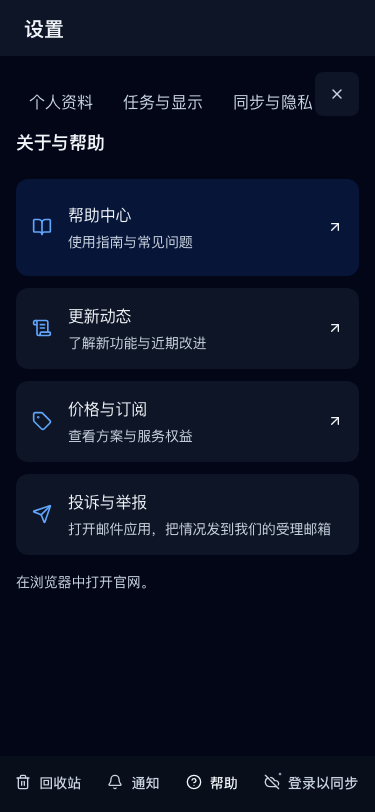
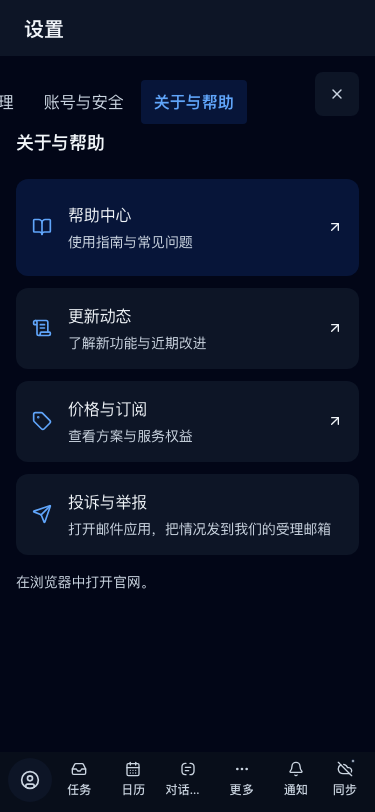
fix(设置导航 窄屏) 当前项要被滚进可视窗口 —— 那条规则从按钮的 onClick 收成 active 的一份 effect
台账里那条"真缺陷"（窄屏 375 从 rail「帮助」进设置，当前分类画在导航可视窗口外 316px，
选中态等于白给）当时登记为"本线不代改"，前置条件是"两栏 IA 还是别人未提交的改动"。
现量：`git show HEAD:apps/web/src/App.tsx | grep -c activeSettingsSection` = 16，
`git diff HEAD -- apps/web/src/App.tsx` 只有本线这一处 ⇒ 结构已进 main，那一格从此是
HEAD 上的在案缺陷，挡它的条件不成立了。

机制：`scrollIntoView` 只挂在导航按钮自己的 `onClick` 上，而选这一档一共四条路 ——
点导航按钮只是其中一条，rail「帮助」/ rail「个人信息」/ `openAiSettings` 那些锚点走的
都是 `setSettingsAnchor(...)`，根本不经过那个 `onClick`。修法按当年写的形状做（没有加
超时、没有改阈值）：把它改成 `SettingsSectionNav` 里 `active` 的 `useEffect`，
一份规则四条路共用 —— 这正是 `App.tsx` 里 H9 第 3 刀"三份拷贝会开始漂移"那个形状。

两头都有牙，且都先红后绿：
- `apps/web/tests/settings-nav-reveal.spec.tsx`（jsdom，记的是"滚的是谁 + 参数"）：
  改前 3/3 红，改后 3/3 绿。第三条用例钉的是"点按钮那条路别因为收成一份而丢"。
- `e2e/tests/help-entry-ux.spec.ts`（真浏览器，量几何：当前项矩形必须在
  `.ht-settings__nav` 可视窗口内）：4/4 绿；红臂把 `App.tsx` 临时换回改前那一版取到，
  原文 `窗口 x=0..315，当前项 x=630.625..736.625`，与台账当年那句 631..737 逐字对得上，
  换完按 sha 校验还原（restored=match_myfix YES）。

连带一条装置侧事实，写清楚免得下一位重踩：effect 一挂上，jsdom 里任何打开过设置的用例
都崩在 `scrollIntoView is not a function` —— 实测 8 枚测试文件 / 34 条用例同时红。
没有把宿主代码改成 `?.scrollIntoView?.()`（那是给生产代码开一条"环境不支持就什么都不做"
的旁路，而那恰是这条规则唯一需要被看见的失败形状），而是按 `apps/web/tests/setup.ts`
自己的规矩补成"jsdom 补齐之四"，与它既有的 `CSS.supports` / `matchMedia` /
`navigator.language` 三条同一个取舍。

复量：`pnpm --dir apps/web test` = 2291 passed / 1 failed，那一枚不是本线的
（`tests/ai-disclosure-parity.spec.tsx`，别线已登记在 `docs/plans/ai-assistant-closure.md`
第 1021 行那张表第 1 行；用例与被测物 `git status` 都干净 ⇒ HEAD 内容）。
[…]

diff --git a/apps/web/tests/settings-nav-reveal.spec.tsx b/apps/web/tests/settings-nav-reveal.spec.tsx
@@ -1,0 +1,185 @@
+/**
+ * 设置导航的**当前项要被带进可视窗口** —— 而且不管这一档是谁选的
+ * ===============================================================
+ *
+ * ## 它补的是哪一条
+ *
+ * 窄屏（实测 375）那条设置分组导航是一根**横向可滚的条**：七项的总宽远超可视窗口，
+ * 「关于与帮助」落在文档 x `631..737` 而窗口只到 `x=315`。从 rail 的「帮助」进设置时，
+ * 内容面已经换成一屏的帮助，导航那一行却还停在最左边 —— **选中态（`aria-current="page"`
+ * 那条主蓝底纹）整个画在可视窗口外**，用户看见的是"我点了帮助，界面却没有任何一项被选中"。
+ *
+ * 机制不在眼睛那儿，在代码里一眼看得到：`scrollIntoView` **只挂在导航按钮自己的
+ * `onClick` 上**。而选这一档一共有四条路 —— 点导航按钮是其中一条，另外三条
+ * （rail「帮助」/ rail「个人信息」/ `openAiSettings` 那些锚点）走的都是
+ * `setSettingsAnchor(...)`，**根本不经过那个 `onClick`**。
+ *
+ * 🔴 本文件先钉"程序化那条路也必须是滚的是导航项"，再钉"点按钮那条路别被我改丢"。
+ * 第二条不是凑数：修法是**把那条规则从 `onClick` 挪成 `active` 的 effect**（一份拷贝，
+ * 四条路共用），挪错了就会只剩效果 A 没有效果 B —— 而那正好是本仓 H9 第 3 刀
+ * （`App.tsx` 里"三份拷贝会开始漂移"那段）说的同一个形状。
+ *
+ * ## 为什么记下的是"滚的是谁"而不是"滚没滚"
+ *
+ * jsdom 不实现 `Element.prototype.scrollIntoView`（浏览器专有）。补法沿用
+ * `settings-anchor-focus.spec.tsx` / `search-panel.spec.tsx`：**补在测试这边**，
+ * 不把宿主代码改成 `?.scrollIntoView?.()`（那是为了迁就夹具而弱化产品代码）。
+ * 顺手把它变成真判据：记下滚的**是谁**与**参数**，于是"滚了内容区那一节"和
+ * "滚了导航里当前项"这两种读法不再同形 —— 本文件第一次跑就是靠这一点红的。
+ */
+import { act } from 'react';
+import { createRoot, type Root } from 'react-dom/client';
+import { IDBFactory } from 'fake-indexeddb';
+import { afterEach, beforeEach, describe, expect, it, vi } from 'vitest';
+
+import { __resetAuthForTests } from '../src/features/auth/store.js';
+import { __resetOpLogForTests, initOpLog } from '../src/lib/oplog.js';
+import { emptyState } from '@heyta/op-log';
+import { privacyConsentActions } from '../src/features/privacy/consent-gate.js';
+import { useSyncStore } from '../src/features/sync/store.js';
+import { useTaskStore } from '../src/features/tasks/store.js';
+import { LocaleHost } from '../src/lib/locale-host.js';
+
+(globalThis as unknown as { indexedDB: IDBFactory }).indexedDB = new IDBFactory();
+(globalThis as unknown as { IDBKeyRange: typeof IDBKeyRange }).IDBKeyRange = IDBKeyRange;
+
+const { App } = await import('../src/App.js');
+
+type Scroll = { target: string; options: unknown };
+const scrolls: Scroll[] = [];
+const originalScrollIntoView = Element.prototype.scrollIntoView;
+const originalScrollTo = Element.prototype.scrollTo;
+
+/**
+ * 导航按钮与内容区那一节的 `id` **会同名**（按钮 `aria-controls="settings-group-help"`，
+ * 区块 `id="settings-group-help"`）—— 不加前缀两者都读成同一个字符串，"滚了区块"就会被
+ * 误读成"滚了导航项"。所以这里把来源写进标签里。
+ */
+function scrollTarget(el: Element): string {
+  const controls = el.getAttribute('aria-controls');
+  if (controls !== null) return `nav:${controls}`;
+  if (el.id !== '') return `section:${el.id}`;
+  const testId = el.getAttribute('data-testid');
+  if (testId !== null) return `testid:${testId}`;
+  return el.tagName.toLowerCase();
+}
+
+let root: Root | undefined;
+let container: HTMLDivElement | undefined;
+
+const click = (el: Element): void => {
+  act(() => {
+    el.dispatchEvent(new MouseEvent('click', { bubbles: true }));
+  });
+};
+
+beforeEach(async () => {
+  scrolls.length = 0;
+  Element.prototype.scrollIntoView = function (this: Element, options?: unknown): void {
+    scrolls.push({ target: scrollTarget(this), options });
+  };
+  /**
+   * 换档时 `onSelect` 还会把浮层滚回顶部（`document.querySelector('.ht-sheet')?.scrollTo(...)`），
+   * 而 jsdom 同样**不实现** `scrollTo`。不补这一层，点按钮那条路会崩在宿主代码里，
+   * 报错指不到产品行为 —— 补法与上面 `scrollIntoView` 同理：补在测试这边。
+   */
+  Object.defineProperty(Element.prototype, 'scrollTo', {
+    value: (): void => undefined,
+    configurable: true,
+    writable: true,
+  });
+  __resetAuthForTests();
+  (globalThis as unknown as { indexedDB: IDBFactory }).indexedDB = new IDBFactory();
+  __resetOpLogForTests();
+  useTaskStore.setState({ entities: emptyState(), filter: { kind: 'all' } });
+  await initOpLog(`nav-reveal-${Math.random().toString(36).slice(2)}`);
+  useSyncStore.setState({ baseUrl: '', token: undefined, password: undefined });
+  vi.stubGlobal(
+    'fetch',
+    vi.fn(async (input: RequestInfo | URL) => {
+      const path = new URL(String(input)).pathname;
+      if (path === '/api/account/profile') {
+        return Response.json({ displayName: null, avatarHash: null });
+      }
+      return Response.json({ error: 'not part of this journey' }, { status: 404 });
+    }),
+  );
+  // 冷启动会弹首启隐私面板；本文件的前提是"这台设备已经做过隐私决定"。
+  privacyConsentActions.accept();
+
+  container = document.createElement('div');
+  document.body.appendChild(container);
+  root = createRoot(container);
+  await act(async () => {
+    root!.render(
+      <LocaleHost>
+        <App />
+      </LocaleHost>,
+    );
+  });
+});
+
+afterEach(() => {
+  Element.prototype.scrollIntoView = originalScrollIntoView;
+  Object.defineProperty(Element.prototype, 'scrollTo', {
+    value: originalScrollTo,
+    configurable: true,
+    writable: true,
+  });
+  act(() => {
+    root?.unmount();
+  });
+  container?.remove();
+  root = undefined;
+  container = undefined;
+  vi.unstubAllGlobals();
+});
+
+describe('设置分组导航的当前项要被滚进可视窗口', () => {
+  it('从 rail 的「帮助」进设置：滚的是导航里 `aria-current="page"` 那一项，不是只有内容区那一节', async () => {
+    const el = container!;
+    const railHelp = el.querySelector('[data-testid="rail-help"]');
+    expect(railHelp, 'rail 上必须有「帮助」').not.toBeNull();
+
+    click(railHelp!);
+
+    const current = el.querySelector('.ht-settings__nav [aria-current="page"]');
+    expect(current, '设置浮层的导航里必须有一项被标成当前档').not.toBeNull();
+    expect(current!.getAttribute('aria-controls'), '程序化选的那一档就是帮助').toBe(
+      'settings-group-help',
+    );
+
+    // 🔴 这一句是本文件的主判据。旧代码里 `scrollIntoView` 只挂在导航按钮自己的
+    //    `onClick` 上，而这条路径不经过它 ⇒ 被滚的只有 `section:settings-group-help`。
+    expect(
+      scrolls.some((s) => s.target === 'nav:settings-group-help'),
+      `导航里的当前项一次都没被滚过（本趟滚到的：${JSON.stringify(scrolls.map((s) => s.target))}）`,
+    ).toBe(true);
+  });
+
+  it('那条滚动的参数还是 `block:"nearest"` + `inline:"center"`（横向居中，别把整页顶下去）', async () => {
+    const el = container!;
+    click(el.querySelector('[data-testid="rail-help"]')!);
+
+    const revealed = scrolls.find((s) => s.target === 'nav:settings-group-help');
+    expect(revealed, '当前项没有被滚').not.toBeUndefined();
+    expect(revealed!.options).toEqual({ block: 'nearest', inline: 'center' });
+  });
+
+  it('点导航按钮那条路没有因为"收成一份规则"而丢：换档后新当前项被滚', async () => {
+    const el = container!;
+    click(el.querySelector('[data-testid="rail-help"]')!);
+    scrolls.length = 0;
+
+    const syncNav = el.querySelector<HTMLButtonElement>('[aria-controls="settings-group-sync"]');
+    expect(syncNav, '导航里必须有「同步与隐私」').not.toBeNull();
+    click(syncNav!);
+
+    expect(
+      scrolls.some((s) => s.target === 'nav:settings-group-sync'),
+      `点按钮换档后新当前项没被滚（本趟滚到的：${JSON.stringify(scrolls.map((s) => s.target))}）`,
+    ).toBe(true);
+    expect(el.querySelector('.ht-settings__nav [aria-current="page"]')?.getAttribute('aria-controls'))
+      .toBe('settings-group-sync');
+  });
+});

diff --git a/e2e/tests/help-entry-ux.spec.ts b/e2e/tests/help-entry-ux.spec.ts
@@ -25,6 +25,25 @@ for (const width of [375, 1440]) {
       // 下层视图叠上来的**过渡帧**（`waitForOverlaySettled` 的注释里记着同一前科）。
       // 下面那些断言量的是 DOM/CSS/几何，不受影响；受影响的是给人打开看的那张图。
       await waitForOverlaySettled(page, 'settings-sheet');
+      /**
+       * 🔴 **导航里的当前项必须落在可视窗口内**。窄屏那根分组导航是横向可滚的条（七项总宽
+       * 远超窗口），而这一条路径**不经过导航按钮自己的 `onClick`** —— 旧代码把 `scrollIntoView`
+       * 只挂在那个 `onClick` 上，于是内容面已经换成帮助、导航还停在最左边，`aria-current="page"`
+       * 那条选中态整个画在窗口外（台账实测 375：当前项在文档 x `631..737`，窗口只到 `x=315`）。
+       * 同一规则的 jsdom 版判据在 `apps/web/tests/settings-nav-reveal.spec.tsx`；这一条量**几何**，
+       * 因为它要回答的是用户那一问 —— "我看得见我被选中了吗"。
+       */
+      const settingsNav = page.locator('.ht-settings__nav');
+      const currentNav = settingsNav.locator('[aria-current="page"]');
+      await expect(currentNav, '设置导航里必须有一项被标成当前档').toHaveCount(1);
+      const navBox = await settingsNav.boundingBox();
+      const currentBox = await currentNav.boundingBox();
+      expect(navBox, '设置导航必须在布局里').not.toBeNull();
+      expect(currentBox, '当前项必须在布局里').not.toBeNull();
+      expect(
+        currentBox!.x >= navBox!.x - 0.5 && currentBox!.x + currentBox!.width <= navBox!.x + navBox!.width + 0.5,
+        `当前项落在导航可视窗口外：窗口 x=${navBox!.x}..${navBox!.x + navBox!.width}，当前项 x=${currentBox!.x}..${currentBox!.x + currentBox!.width}`,
+      ).toBe(true);
       await expect(page.getByTestId('settings-sheet').getByRole('heading')).toHaveCount(1);
       await expect(page.getByTestId('detail-pane-toggle')).toHaveCount(0);
       const links = page.getByTestId('about-links').getByRole('link');

diff --git a/apps/web/src/App.tsx b/apps/web/src/App.tsx
@@ -242,15 +242,29 @@ function SettingsSectionNav({ active, onSelect }: {
   onSelect: (id: SettingsSectionId) => void;
 }): React.JSX.Element {
   const { t } = useI18n();
+  const navRef = useRef<HTMLElement>(null);
+  /**
+   * 🔴 **一份规则，四条路共用**。窄屏这根导航是横向可滚的条，七项总宽远超可视窗口，
+   * 所以"当前项要被带进视野"属于**当前项**，不属于**谁把它变成当前项**。
+   *
+   * 原先那行 `scrollIntoView` 挂在按钮自己的 `onClick` 上，于是从 rail「帮助」/
+   * rail「个人信息」/ `openAiSettings` 这些锚点进来时**根本不经过它**：内容面已经换成
+   * 那一节，导航却还停在最左边，`aria-current="page"` 那条选中态整个画在窗口外
+   * （实测 375：当前项落在文档 x `631..737`，窗口只到 `x=315`）。
+   *
+   * 判据在 `apps/web/tests/settings-nav-reveal.spec.tsx`（先红后绿，记的是"滚的是谁"）。
+   */
+  useEffect(() => {
+    navRef.current
+      ?.querySelector<HTMLElement>('[aria-current="page"]')
+      ?.scrollIntoView({ block: 'nearest', inline: 'center' });
+  }, [active]);
   return (
-    <nav className="ht-settings__nav" aria-label={t('web.shell.views.settings')}>
+    <nav ref={navRef} className="ht-settings__nav" aria-label={t('web.shell.views.settings')}>
       {SETTINGS_NAV_ITEMS.map((item) => (
         <button key={item.id} type="button" className="ht-settings__nav-link"
           aria-current={active === item.id ? 'page' : undefined}
-          aria-controls={item.id} onClick={(event) => {
-            onSelect(item.id);
-            event.currentTarget.scrollIntoView({ block: 'nearest', inline: 'center' });
-          }}>
+          aria-controls={item.id} onClick={() => onSelect(item.id)}>
           {t(item.labelKey)}
         </button>
       ))}

diff --git a/apps/web/tests/setup.ts b/apps/web/tests/setup.ts
@@ -134,3 +134,27 @@ Object.defineProperty(window.navigator, 'language', {
   get: () => 'zh-CN',
   configurable: true,
 });
+
+/**
+ * jsdom 补齐之四：`Element.prototype.scrollIntoView`
+ *
+ * 🔴 起因是一枚具体的崩溃，不是"以后可能用得到"：设置分组导航把"当前项要被滚进
+ * 可视窗口"做成了 `active` 的 effect（窄屏那根条横向可滚，而选这一档有四条路，
+ * 旧代码的 `scrollIntoView` 只挂在导航按钮自己的 `onClick` 上 ⇒ 从 rail「帮助」
+ * 进来时选中态整个画在窗口外）。effect 一挂上，**任何打开过设置的用例**都会崩在
+ * `scrollIntoView is not a function` —— 实测 8 枚测试文件、34 条用例同时红，
+ * 报错指不到产品行为。
+ *
+ * ⚠ 补在**测试这边**，不把宿主代码改成 `?.scrollIntoView?.()`：后者等于给生产代码
+ * 开一条"环境不支持就什么都不做"的旁路，而那正是这条规则唯一需要被看见的失败形状。
+ * 同一取舍在 `settings-anchor-focus.spec.tsx` / `search-panel.spec.tsx` 的文件头里
+ * 已经写过一次，本文件是把它收在一处。
+ *
+ * 要拿它当判据的用例（`settings-nav-reveal.spec.tsx`）在自己的 `beforeEach` 里覆写成
+ * 记录器、`afterEach` 还原 —— 还原到的就是这里这枚空函数，用例间不泄漏。
+ */
+if (typeof Element !== 'undefined' && typeof Element.prototype.scrollIntoView !== 'function') {
+  Element.prototype.scrollIntoView = function (): void {
+    // jsdom 没有布局引擎：滚不动，也不该假装滚动了什么。
+  };
+}
